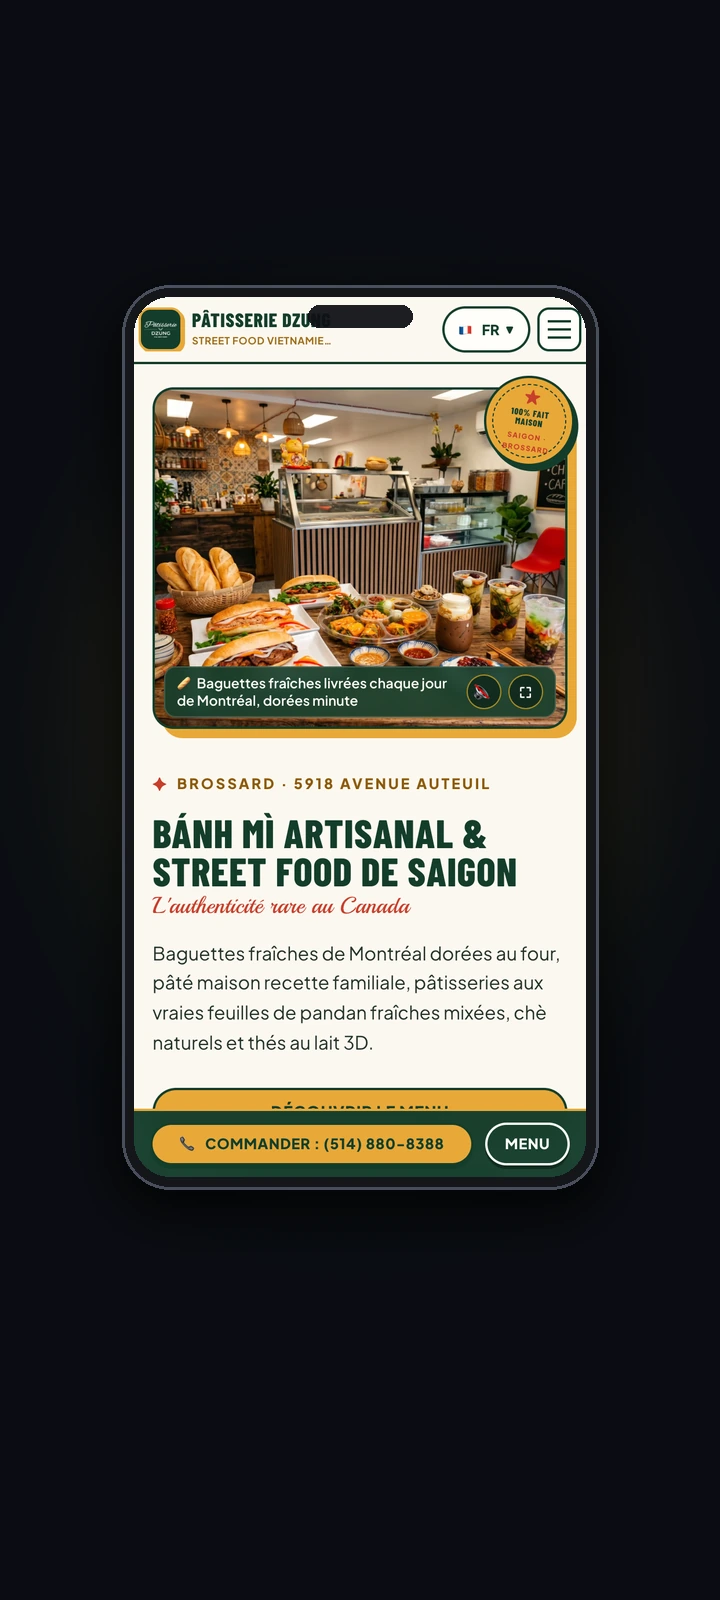
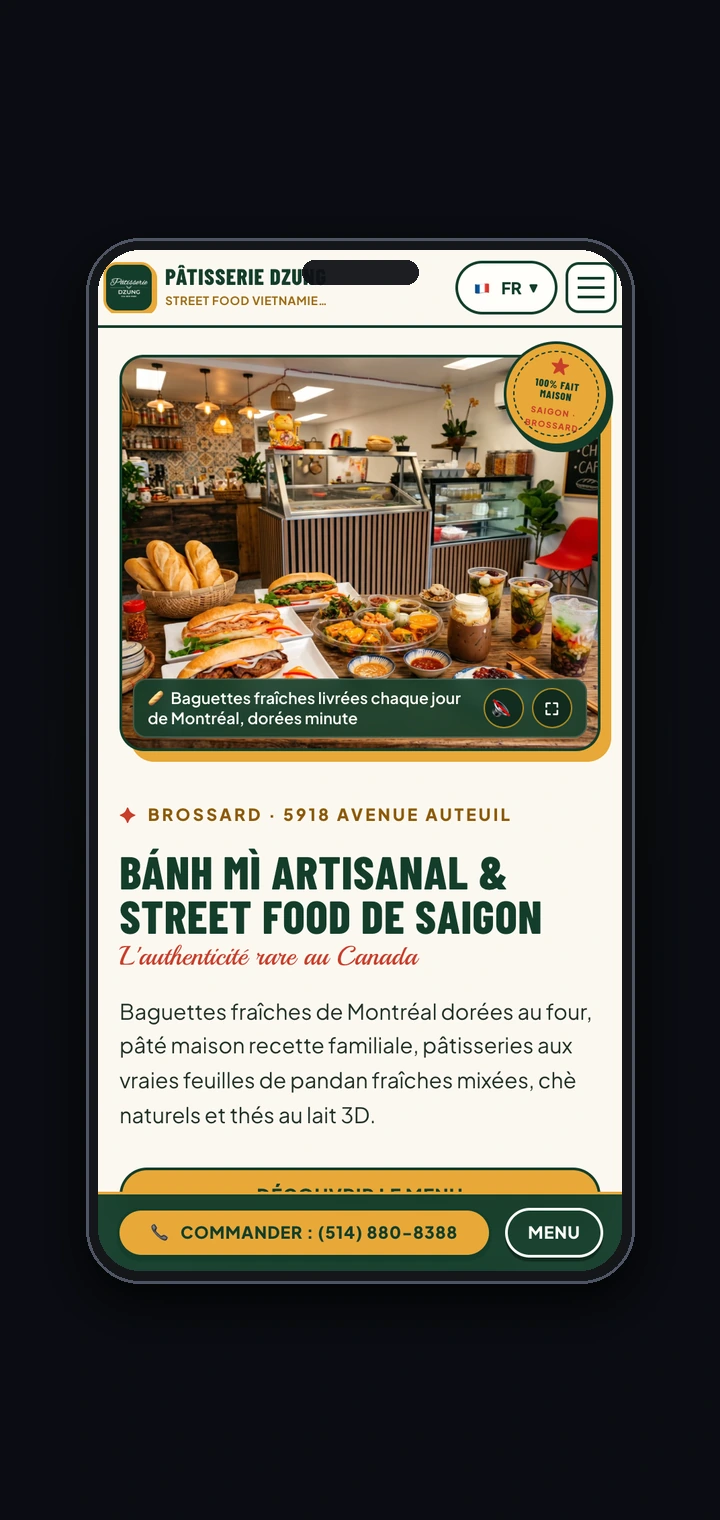
fix(hero): remove legacy 1.28x web crop offset & center 03 Web mobile iPhone cleanly via object-fit contain

diff --git a/src/App.css b/src/App.css
@@ -5419,10 +5419,13 @@ dialog.showreel-dialog[open] {
   margin: -0.2rem 0 1.65rem;
 }
 
-/* Clean collapsed crop on Hero card 03 / WEB: frame bakery hero photo cleanly without sliced French top nav */
-.kiln-card[data-pillar='web']:not(.is-active) .kiln-card-img {
-  transform: scale(1.28);
-  transform-origin: 86% 62%;
+/* Collapsed 03 / WEB mobile mockup: keep entire iPhone centered & uncropped across all laptop aspect ratios */
+.kiln-card[data-pillar='web']:not(.is-active) .kiln-card-img--collapsed {
+  object-fit: contain;
+  object-position: center center;
+  background: #0b0d13;
+  transform: scale(1);
+  filter: brightness(0.92) saturate(1.04);
 }
 
 .kiln-card[data-pillar='web'].is-active .kiln-card-img {

diff --git a/src/components/HeroSection.tsx b/src/components/HeroSection.tsx
@@ -48,7 +48,7 @@ const KILN_CARDS: readonly KilnCardSpec[] = [
     image: '/Media/quote-showcase/patisserie-dzung-home.jpg',
     objectPosition: '4% top',
     collapsedImage: '/Media/quote-showcase/patisserie-dzung-mobile-hero.webp',
-    collapsedObjectPosition: 'center top',
+    collapsedObjectPosition: 'center center',
     width: 1280,
     height: 800,
     priority: false
